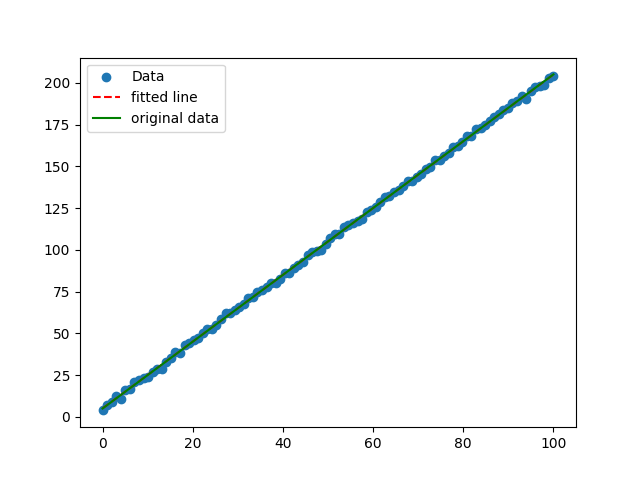
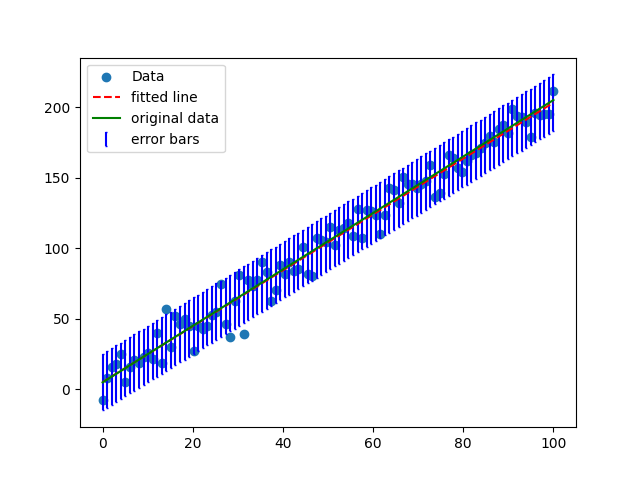
added error bars

diff --git a/test_ci.py b/test_ci.py
@@ -5,6 +5,7 @@ import numpy as np
 from Functions import increment
 class TestFunction(unittest.TestCase):
     
+    #unit tests for increment by 1 function
     def test_Increment(self):
         self.assertEqual(increment(5), 6)
         self.assertEqual(increment(-8), -7)
@@ -16,12 +17,14 @@ class TestFunction(unittest.TestCase):
     def test_GraphSaved(self):
         self.assertTrue(os.path.exists("DataPipelinePlot.png"))
 
+#testing that the data only contains numbers
     def test_ForNonNumericValues(self):
         df = pd.read_csv("PipelineData.csv")
         self.assertTrue(np.issubdtype(df["x"].dtype, np.number))
         self.assertTrue(np.issubdtype(df["y"].dtype, np.number))
 
-    def test_SlopeandInterceptClose(self):
+#testing that the gradient and y intercept values are as expected
+    def test_GradientandInterceptClose(self):
         df = pd.read_csv("PipelineData.csv")
         x = df["x"].values
         y = df["y"].values

diff --git a/graphGeneration.py b/graphGeneration.py
@@ -11,9 +11,13 @@ mFit, bFit = np.polyfit(x, y, 1)
 m = 2
 b = 5
 
-#plot fitted data
+#plot data
 plt.scatter(x, y, label="Data")
+#adding error bars at twice starndard deviation of the noise
+plt.errorbar(x, mFit*x+bFit, yerr=20, fmt='none', ecolor='blue', capsize = 1, label = "error bars")
+#line of best fit
 plt.plot(x, mFit*x+bFit, color = "red", label = "fitted line", linestyle = "--")
+#original data 
 plt.plot(x, m*x+b, color = "green", label = "original data",)
 plt.legend()
 plt.savefig("DataPipelinePlot.png")

diff --git a/dataPipeline.py b/dataPipeline.py
@@ -10,7 +10,7 @@ numPoints = 100
 x = np.linspace(0, 100, numPoints)
 
 #y values and noise
-noise = np.random.normal(0, 1, numPoints)
+noise = np.random.normal(0, 10, numPoints)
 y = m * x + b + noise
 
 #save to csv
